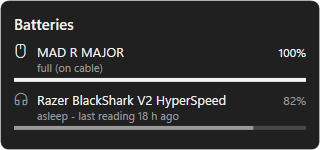
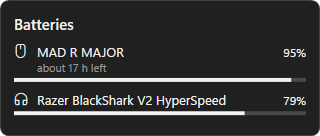
v1.9.1: Menu stays on the taskbar when the language list opens or closes; fewer idle wake-ups; new screenshots

diff --git a/core/Flyout.cs b/core/Flyout.cs
@@ -81,7 +81,14 @@ namespace SwarlexBattery
             win.KeyDown += (s, e) => { if (e.Key == Key.Escape) Close(); };
             // create the window now, so the first click opens it without WPF's cold-start delay
             new WindowInteropHelper(win).EnsureHandle();
-            win.SizeChanged += (s, e) => { if (Open != null) Place(); };
+            // SizeChanged comes before the native window has its new size (e.g. the language list opened): placed
+            // with the new size at once, and once more after the resize, so the bottom stays on the taskbar
+            win.SizeChanged += (s, e) =>
+            {
+                if (Open == null) return;
+                Place(e.NewSize);
+                win.Dispatcher.BeginInvoke(new Action(() => { if (Open != null) Place(); }), System.Windows.Threading.DispatcherPriority.Background);
+            };
         }
 
         public void Close()
@@ -145,12 +152,21 @@ namespace SwarlexBattery
         // another scale makes WPF resize the window; SizeChanged then places it again.
         System.Drawing.Point anchor;
 
-        void Place()
+        void Place() { Place(Size.Empty); }
+
+        void Place(Size dip)
         {
             if (hwnd == IntPtr.Zero) return;
             var scr = Forms.Screen.FromPoint(anchor);
             var wa = Win.AreaOutsideTaskbar(scr.Bounds, scr.WorkingArea);
             int w, h; if (!Win.WindowSize(hwnd, out w, out h)) return;
+            var src = PresentationSource.FromVisual(win);
+            if (!dip.IsEmpty && src != null && src.CompositionTarget != null)
+            {
+                // the size the window is about to get, in physical pixels
+                var t = src.CompositionTarget.TransformToDevice;
+                w = (int)Math.Round(dip.Width * t.M11); h = (int)Math.Round(dip.Height * t.M22);
+            }
             int m = (int)Math.Round(8 * Win.DpiScale(anchor));
             above = anchor.Y > (wa.Top + wa.Bottom) / 2;
             int x = Math.Max(wa.Left + m, Math.Min(wa.Right - w - m, anchor.X - w / 2));

diff --git a/core/Host.cs b/core/Host.cs
@@ -59,7 +59,9 @@ namespace SwarlexBattery
                 else if (e.Reason == SessionSwitchReason.SessionUnlock) { locked = false; PollSoon(); }
             }));
             SystemEvents.PowerModeChanged += (s, e) => { if (e.Mode == PowerModes.Resume) ui.BeginInvoke(new Action(() => PollSoon())); };
-            timer = new DispatcherTimer(DispatcherPriority.Background, ui) { Interval = TimeSpan.FromMilliseconds(500) };
+            // once a second is enough for everything below (the closest deadline is a re-read 1.5 s after a plug-in),
+            // and every wake-up of an idle tray app costs a little battery on a laptop
+            timer = new DispatcherTimer(DispatcherPriority.Background, ui) { Interval = TimeSpan.FromSeconds(1) };
             timer.Tick += (s, e) => { try { Tick(); } catch (Exception ex) { Log.Once("tick: " + ex); } };
             timer.Start();
             Log.Write("SwarlexBattery v" + Program.AppVersion + " started (PID " + Process.GetCurrentProcess().Id + ", icon " + TrayRenderer.Size + " px, " + TrayRenderer.GlyphFont + ", language " + Strings.Lang + ")");

diff --git a/README.md b/README.md
@@ -26,9 +26,15 @@ software running in the background. One small icon: the left half of the ring is
 right half the headset. Left click for details, right click for the menu.
 
 <p align="center">
-  <img src="docs/images/flyout.png" width="320" alt="Flyout with battery levels">
+  <picture>
+    <source media="(prefers-color-scheme: light)" srcset="docs/images/flyout-light.png">
+    <img src="docs/images/flyout.png" width="320" alt="Flyout with battery levels and the time left">
+  </picture>
   &nbsp;&nbsp;
-  <img src="docs/images/menu.png" width="270" alt="Right-click menu">
+  <picture>
+    <source media="(prefers-color-scheme: light)" srcset="docs/images/menu-light.png">
+    <img src="docs/images/menu.png" width="270" alt="Right-click menu">
+  </picture>
 </p>
 
 <p align="center">

diff --git a/docs/CHANGELOG.md b/docs/CHANGELOG.md
@@ -2,6 +2,17 @@
 
 All notable changes. Downloads: [Releases](https://github.com/swarlex/SwarlexBattery/releases).
 
+## 1.10.2
+The menu stays in place when the language list opens or closes.
+
+### Fixed
+- Opening the language list made the menu grow below the taskbar, and closing it left the menu floating
+  in the middle of the screen: the menu was placed by its old height. It now stays on the taskbar.
+
+### Changed
+- The app wakes up half as often while idle (once a second), a little kinder to laptop batteries.
+- New screenshots on GitHub, in light and dark.
+
 ## 1.10.1
 A fix for *Diagnostics…*.
 
